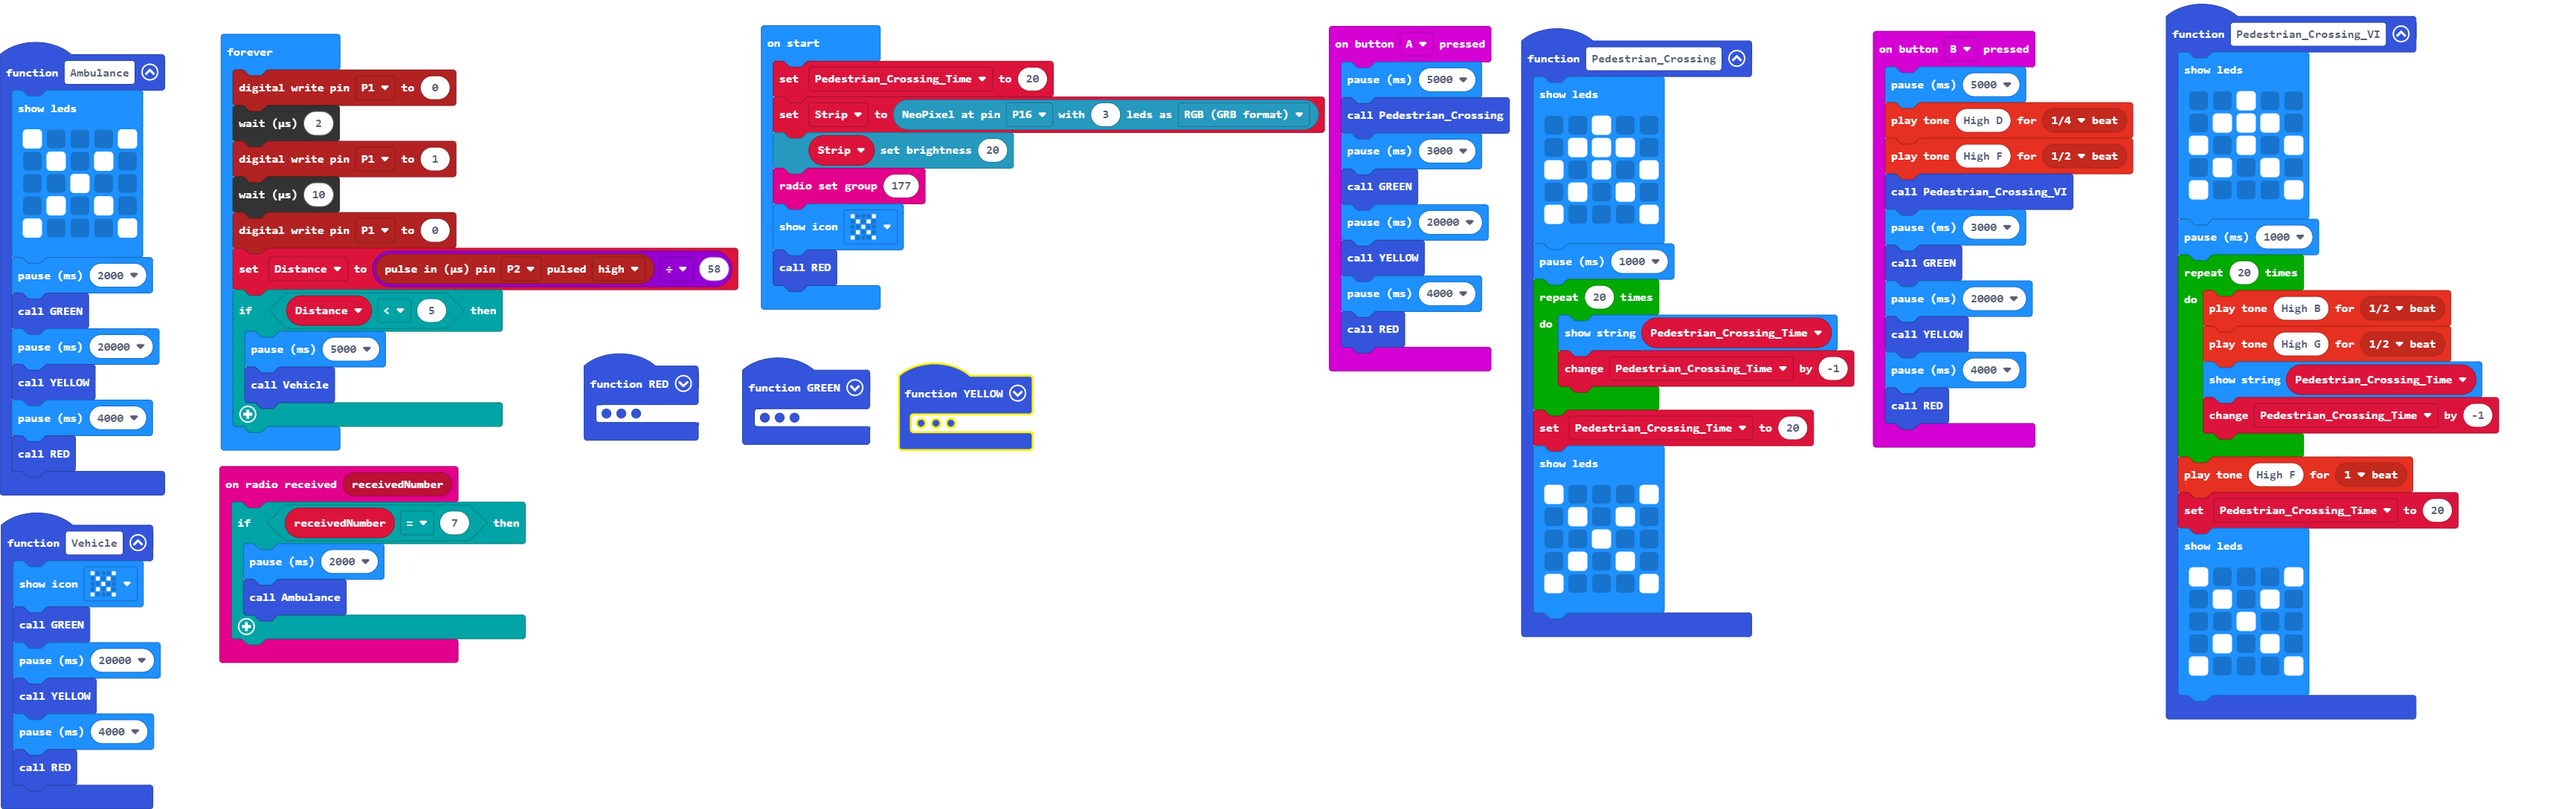
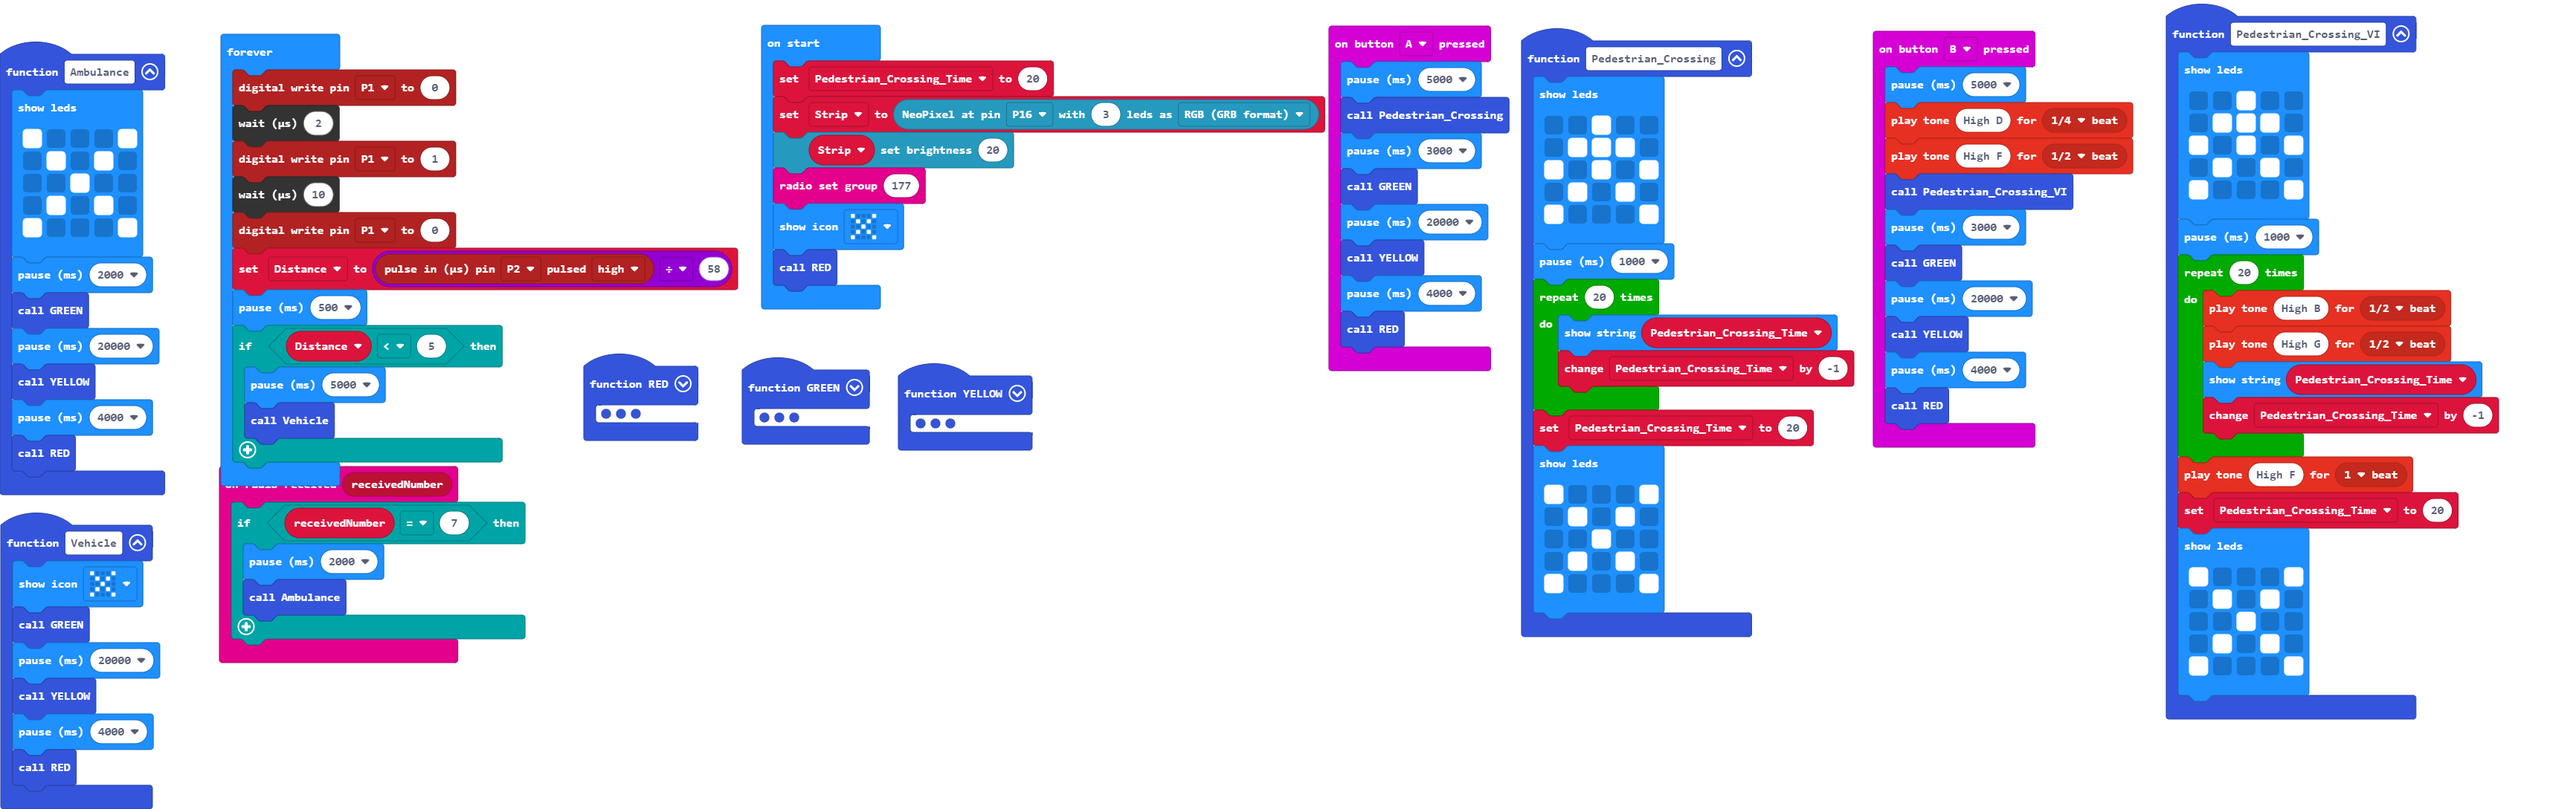
Update main.blocks, main.ts

diff --git a/main.ts b/main.ts
@@ -137,6 +137,7 @@ basic.forever(function () {
     control.waitMicros(10)
     pins.digitalWritePin(DigitalPin.P1, 0)
     Distance = pins.pulseIn(DigitalPin.P2, PulseValue.High) / 58
+    basic.pause(500)
     if (Distance < 5) {
         basic.pause(5000)
         Vehicle()
